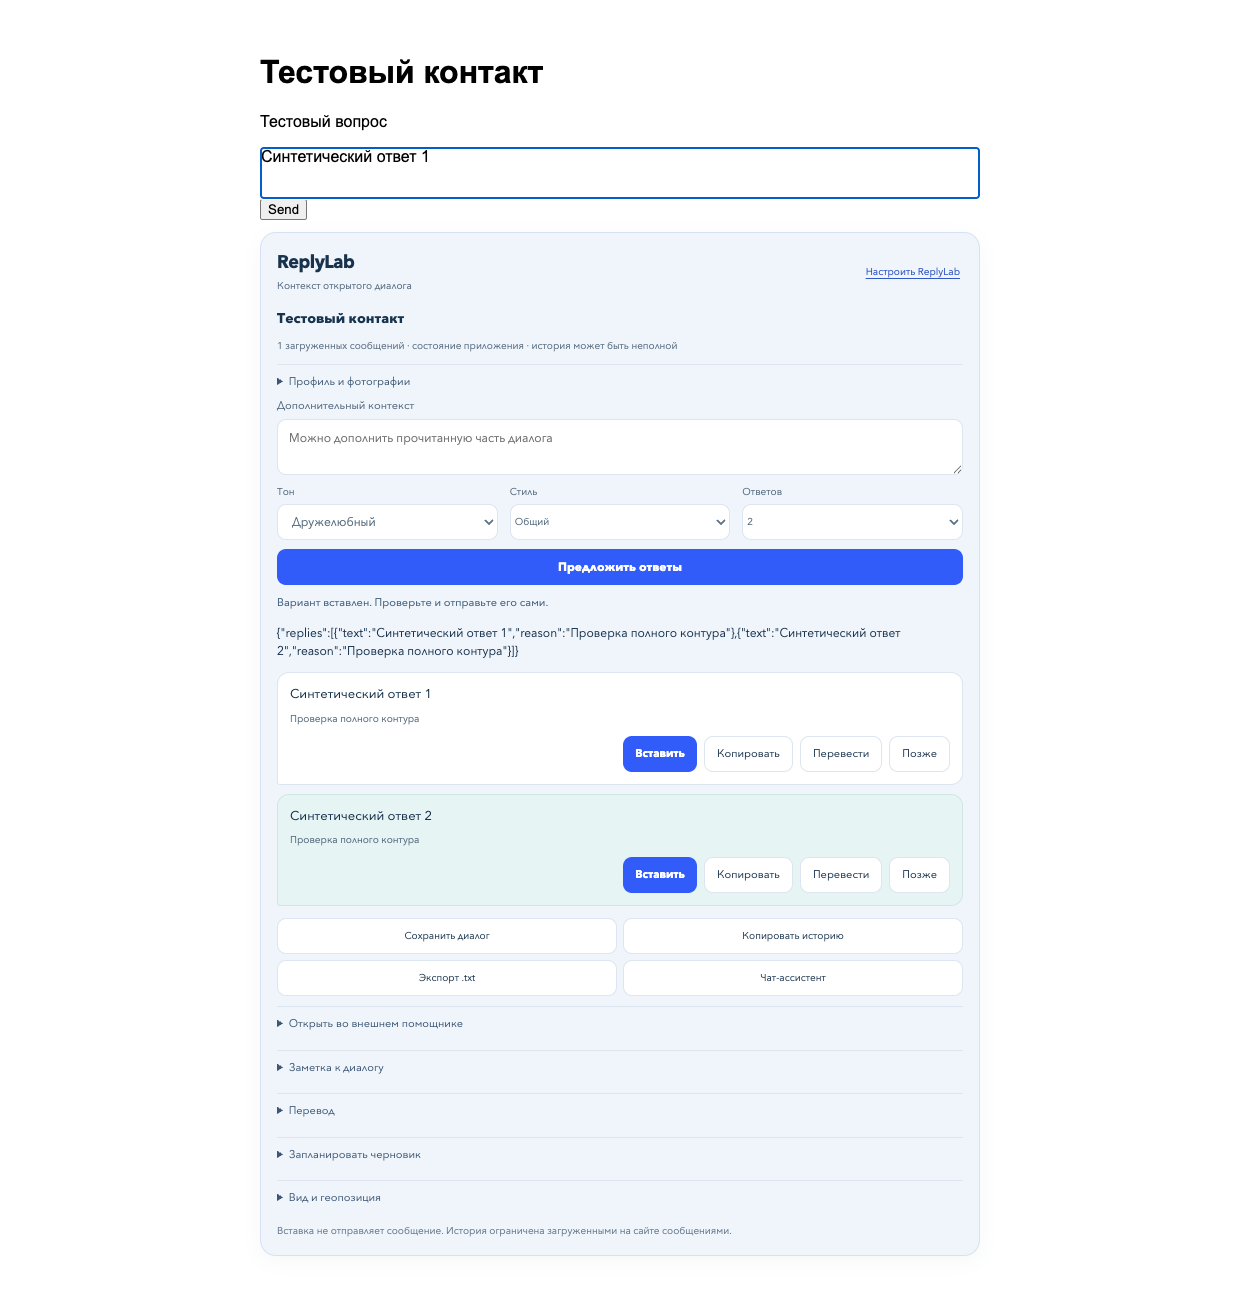
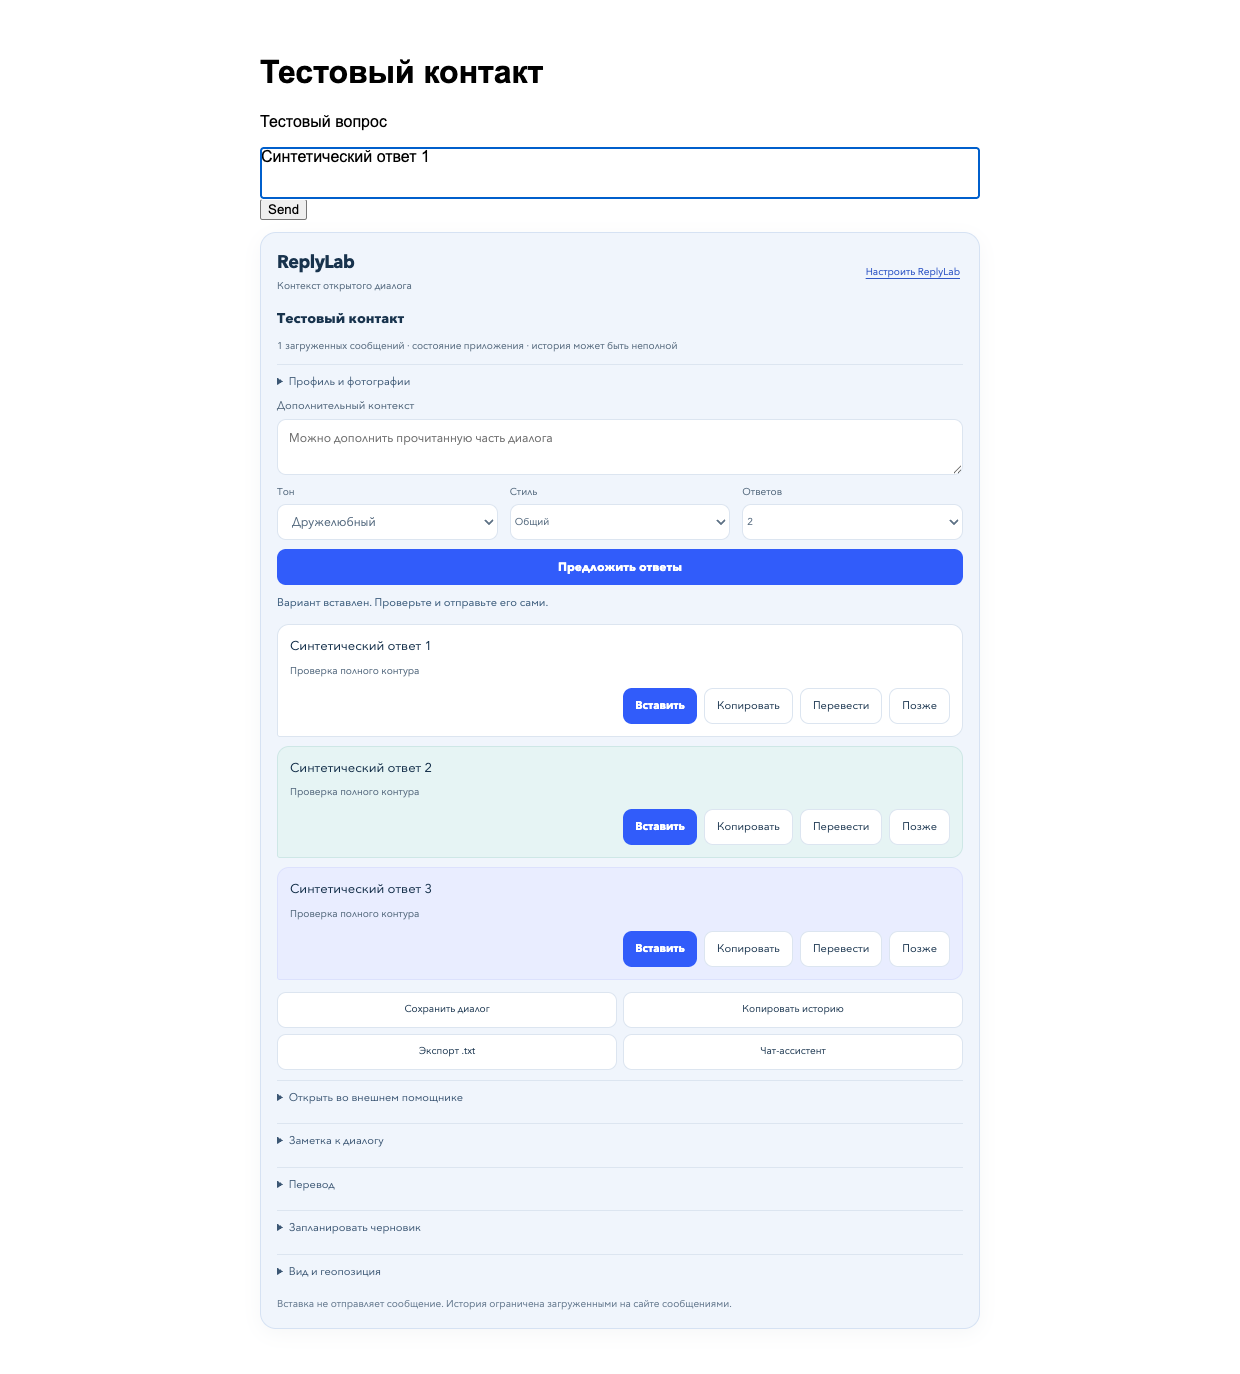
Keep structured stream data out of reply cards

diff --git a/extension/content.js b/extension/content.js
@@ -131,7 +131,7 @@ function createPanel(composer, anchor, env) {
       }
       function receive(message) {
         if (message.id !== id) return;
-        if (message.type === 'delta' && current() && number === requestNumber) $('.live-result').textContent += message.text || '';
+        // Reply deltas contain structured JSON. Show only validated reply cards.
         if (message.type === 'result') finish(null, message.result);
         if (message.type === 'error') finish(new Error(message.error || 'Поток ответа прерван.'));
       }
